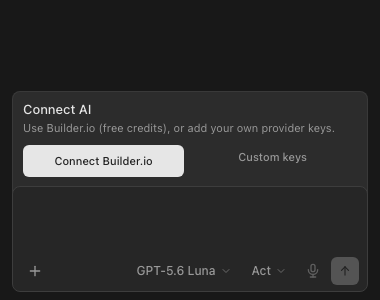
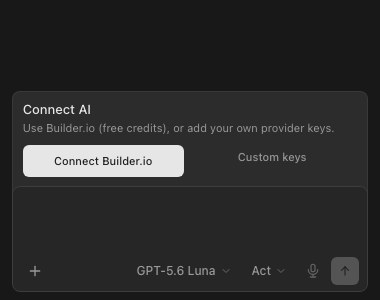
chore: publish branch work in .screenshots/chat-right-sidebar-provider-actions-equal-width.png, .screenshots/chat-web-provider-actions-equal-width.png, packages/core, … (4 files)

diff --git a/packages/toolkit/src/composer/TiptapComposer.tsx b/packages/toolkit/src/composer/TiptapComposer.tsx
@@ -668,6 +668,8 @@ export interface ComposerAgentOption {
   id: string;
   /** Human-readable runtime name shown in the picker. */
   label: string;
+  /** Optional icon shown beside the runtime name. */
+  icon?: React.ReactNode;
   /** Optional short detail shown below the runtime name. */
   description?: string;
   /** Whether this runtime can be selected right now. */
@@ -774,6 +776,8 @@ export interface TiptapComposerProps {
   availableAgents?: ComposerAgentOption[];
   /** Selected agent runtime identifier. Defaults to the built-in agent. */
   selectedAgent?: string;
+  /** Show only the selected agent in the model control. */
+  agentOnly?: boolean;
   /** Mark the selected runtime as the hosted tools-only harness mode. */
   hostedHarness?: boolean;
   /** Callback when the user picks an agent runtime. */
@@ -1297,6 +1301,7 @@ function ModelSelector({
   engines,
   agents,
   selectedAgent,
+  agentOnly = false,
   hostedHarness = false,
   showAutoModelOption = true,
   modelListLoading = false,
@@ -1322,7 +1327,8 @@ function ModelSelector({
     configured: boolean;
     statusLabel?: string;
     isSubscription?: boolean;
-  }>;
+  }>; 
+  agentOnly?: boolean;
   showAutoModelOption?: boolean;
   modelListLoading?: boolean;
   onChange: (model: string, engine: string) => void;
@@ -1411,9 +1417,10 @@ function ModelSelector({
     }
     onChange(preferredAgentModel.model, preferredAgentModel.engine);
   }, [engines, isClaudeCodeAgent, model, onChange, preferredAgentModel]);
-  const effortOptions =
-    reasoning?.getOptionsForModel?.(model) ??
-    getComposerReasoningEffortOptions(model);
+  const effortOptions = agentOnly
+    ? []
+    : (reasoning?.getOptionsForModel?.(model) ??
+      getComposerReasoningEffortOptions(model));
   const selectedEffort =
     reasoning?.resolve?.(model, effort) ??
     resolveReasoningEffortSelection(model, effort ?? defaultEffort);
@@ -1435,7 +1442,7 @@ function ModelSelector({
   const [detailSection, setDetailSection] = useState<
     "agent" | "model" | "effort" | null
   >(null);
-  const resolvedSection = detailSection ?? "model";
+  const resolvedSection = detailSection ?? (agentOnly ? "agent" : "model");
 
   const setPickerOpen = useCallback(
     (nextOpen: boolean) => {
@@ -1518,6 +1525,11 @@ function ModelSelector({
           className="agent-composer-model-button flex min-w-0 max-w-[10.5rem] shrink items-center gap-1 rounded-md px-2 py-1 text-[12px] font-medium text-muted-foreground hover:bg-accent/50 hover:text-foreground"
         >
           <span className="min-w-0 truncate">
+            {selectedAgentOption?.icon ? (
+              <span className="me-1 inline-flex shrink-0 align-[-2px] text-muted-foreground">
+                {selectedAgentOption.icon}
+              </span>
+            ) : null}
             {selectedAgentOption && selectedAgentOption.id !== "default"
               ? selectedAgentLabel
               : compactComposerModelName(model, t)}
@@ -1613,7 +1625,8 @@ function ModelSelector({
                   <IconChevronRight className="h-3 w-3 shrink-0 opacity-60 rtl:-scale-x-100" />
                 </button>
               )}
-              <button
+              {!agentOnly && (
+                <button
                 type="button"
                 role="tab"
                 aria-selected={resolvedSection === "model"}
@@ -1630,8 +1643,9 @@ function ModelSelector({
                   {selectedModelLabel}
                 </span>
                 <IconChevronRight className="h-3 w-3 shrink-0 opacity-60 rtl:-scale-x-100" />
-              </button>
-              {effortOptions.length > 0 && (
+                </button>
+              )}
+              {!agentOnly && effortOptions.length > 0 && (
                 <button
                   type="button"
                   role="tab"
@@ -1703,6 +1717,12 @@ function ModelSelector({
                                 : "cursor-default opacity-50"
                             }`}
                           >
+                            <span
+                              className="flex size-4 shrink-0 items-center justify-center text-muted-foreground"
+                              aria-hidden="true"
+                            >
+                              {agent.icon}
+                            </span>
                             <span
                               className={`min-w-0 truncate text-[12px] ${
                                 isSelected

diff --git a/packages/core/src/styles/agent-native.css b/packages/core/src/styles/agent-native.css
@@ -924,6 +924,15 @@
   flex: 1 1 auto;
 }
 
+.agent-builder-setup-card__builder-cta {
+  align-items: stretch;
+}
+
+.agent-builder-setup-card__builder-cta
+  .agent-builder-setup-card__builder-button {
+  width: 100%;
+}
+
 .agent-builder-setup-card__actions
   > :is(
     .agent-builder-setup-card__builder-cta,
@@ -981,14 +990,15 @@
     flex-wrap: nowrap;
   }
 
-  .agent-builder-setup-card__builder-cta,
-  .agent-builder-setup-card__key-button {
+  .agent-builder-setup-card__actions > .agent-builder-setup-card__builder-cta,
+  .agent-builder-setup-card__actions > .agent-builder-setup-card__key-button {
     align-self: stretch;
     flex: 0 0 auto;
     width: 100%;
   }
 
-  .agent-builder-setup-card__actions > .agent-builder-setup-card__builder-button {
+  .agent-builder-setup-card__actions
+    > .agent-builder-setup-card__builder-button {
     flex: 0 0 auto;
     width: 100%;
   }
